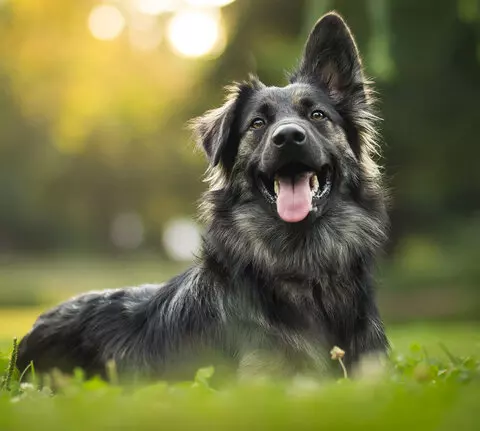
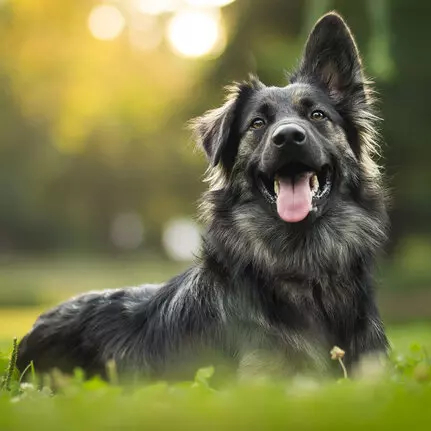
feat, fix
se agrega boton que muestra implementacion en proyectos.
se cambia el estilo de las tarjetas de implementacion y la portada de los proyectos.
se corrigen rutas de archivos de imagenes en el proyecto

diff --git a/tp-leng1-equipo-B/Programas.html b/tp-leng1-equipo-B/Programas.html
@@ -47,7 +47,7 @@
             <div class="top-header">
                 <a href="index.html">
                     <div class="logo">
-                        <img src="images/Logo-Patas-sin-fronteras.png" alt="Logo patas sin fronteras">
+                        <img src="./images/Logo-Patas-sin-fronteras.png" alt="Logo patas sin fronteras">
                     </div>
                     <div>
                         <h1>Patas sin Fronteras</h1>
@@ -66,7 +66,7 @@
                 <article id="Adopcion" class="proyecto">
                     <div class="contenedor-titulo">
                         <img class="fade-left" src="./images/programas/titulo-background.jpg" alt="imagen de perro">
-                        <div class="titulo">
+                        <div class="proyecto-titulo">
                             <h3>Red de Adopcion Resopnsable</h3>
                             <p>Adoptar es un acto de amor, hacerlo responsable es garantizar bienestar</p>
                         </div>
@@ -103,10 +103,12 @@
                         </div>
                     </div>
                     <div>
-                        <h4>¿Cómo se implementa?</h4>
-                        <div class="implementacion">
+                        <div id="btn-adopcion" class="btn-implementacion">
+                            <p>¿Cómo se implementa?<p>
+                        </div>
+                        <div id="imp-adopcion" class="implementacion hidden">
                             <div class="card-peq">
-                                <img src="" alt="">
+                                <img class="card-icon" src="./images/programas/preadopcion.svg" alt="">
                                 <h5>Sistema de Pre-Adopción</h5>
                                 <p><strong>Herramientas:</strong> Formulario digital y entrevistas</p>
                                 <p><strong>Criterios evaluados:</strong></p>
@@ -118,8 +120,8 @@
                                 </ul>
                             </div>
                             <div class="card-peq">
-                                <img src="" alt="">
-                                <h5>Perfilado y Matching de Adopción<h5>
+                                <img class="card-icon" src="./images/programas/perfilado.svg" alt="">
+                                <h5>Perfilado y Matching de Adopción</h5>
                                 <p>Cada animal tiene:</p>
                                 <ul>
                                     <li>Ficha completa (edad, caracter, salud, etc.).</li>
@@ -128,7 +130,7 @@
                                 <p><strong>Objetivo:</strong> evitar adopciones incompatibles.</p>
                             </div>
                             <div class="card-peq">
-                                <img src="" alt="">
+                                <img class="card-icon" src="./images/programas/entrega.svg" alt="">
                                 <h5>Entrega Responsable</h5>
                                 <ul>
                                     <li>Contrato de adopción</li>
@@ -137,7 +139,7 @@
                                 </ul>
                             </div>
                             <div class="card-peq">
-                                <img src="" alt="">
+                                <img class="card-icon" src="./images/programas/seguimiento.svg" alt="">
                                 <h5>Seguimiento Post-Adopción</h5>
                                 <p><strong>Puntos de control:</strong></p>
                                 <ul>
@@ -149,7 +151,7 @@
                                 <p>WhatsApp / Llamadas / Visita (casos especiales)</p>  
                             </div>
                             <div class="card-peq">
-                                <img src="" alt="">
+                                <img class="card-icon" src="./images/programas/comunidad.svg" alt="">
                                 <h5>Comunidad de Adoptantes</h5>
                                 <ul>
                                     <li>Grupo de Whatsapp y Canal de Discord</li>
@@ -163,9 +165,10 @@
 
                 <article id="Castracion" class="proyecto">
                     <div class="contenedor-titulo">
-                        <div class="titulo">
+                        <img class="fade-left" src="./images/programas/titulo-castracion.jpg"></img>
+                        <div class="proyecto-titulo">
                             <h3>Jornadas de Castración y Atención Básica</h3>
-                            <p>Lorem ipsum dolor sit amet consectetur adipisicing elit. Temporibus?</p>
+                            <p>Controlar la sobrepoblación es construir un futuro sin abandono.</p>
                         </div>
                     </div>
                     <div class="inf-gral">
@@ -195,11 +198,13 @@
                             </div>
                         </div>
                     </div>
-                    <div id="implementacion" class="">
-                        <h4>¿Cómo se implementa?</h4>
-                        <div class="implementacion">
+                    <div class="">
+                        <div id="btn-castracion" class="btn-implementacion">
+                            <p>¿Cómo se implementa?<p>
+                        </div>
+                        <div id="imp-castracion" class="implementacion hidden">
                             <div class="card-peq">
-                                <img src="" alt="">
+                                <img class="card-icon" src="./images/programas/operativosm.svg" alt="">
                                 <h5>Operativos Móviles</h5>
                                 <p><strong>Modalidad:</strong> Unidad móvil y espacios comunitarios.</p>
                                 <p><strong>Espacios Utilizados:</strong></p>
@@ -212,8 +217,8 @@
                                 <p><strong>Frecuencia:</strong> Una jornada semanal.</p>
                             </div>
                             <div class="card-peq">
-                                <img src="" alt="">
-                                <h5>Servicios Incluidos<h5>
+                                <img class="card-icon" src="./images/programas/servicios.svg" alt="">
+                                <h5>Servicios Incluidos</h5>
                                 <ul>
                                     <li>Castración de perros y gatos.</li>
                                     <li>Vacunación antirrábica.</li>
@@ -222,7 +227,7 @@
                                 </ul>
                             </div>
                             <div class="card-peq">
-                                <img src="" alt="">
+                                <img class="card-icon" src="./images/programas/difusion.svg" alt="">
                                 <h5>Campaña de Difusión</h5>
                                 <p><strong>Canales de Comunicación:</strong></p>
                                 <ul>
@@ -233,7 +238,7 @@
                                 </ul>
                             </div>
                             <div class="card-peq">
-                                <img src="" alt="">
+                                <img class="card-icon" src="./images/programas/recursos.svg" alt="">
                                 <h5>Recursos Necesarios</h5>
                                 <p><strong>Recursos Humanos:</strong></p>
                                 <ul>
@@ -255,7 +260,7 @@
 
                 <article id="Educacion" class="proyecto">
                     <div class="contenedor-titulo">
-                        <div class="titulo">
+                        <div class="proyecto-titulo">
                             <h3>Programa Educativo "Convivir con Respeto"</h3>
                             <p>El abandono animal no es solo un problema económico o logístico, sino principalmente cultural y educativo.</p>
                         </div>
@@ -291,11 +296,13 @@
                             </div>
                         </div>
                     </div>
-                    <div id="implementacion" class="">
-                        <h4>¿Cómo se implementa?</h4>
-                        <div class="implementacion">
+                    <div class="contenedor-implementacion">
+                        <div id="btn-educacion" class="btn-implementacion">
+                            <p>¿Cómo se implementa?<p>
+                        </div>
+                        <div id="imp-educacion" class="implementacion hidden">
                             <div class="card-peq">
-                                <img src="" alt="">
+                                <img class="card-icon" src="./images/programas/charlas.svg" alt="">
                                 <h5>Charlas en Instituciones Educativas</h5>
                                 <p><strong>Modalidad:</strong> Charlas presenciales y virtuales de 45 a 60 minutos.</p>
                                 <p><strong>Contenido Adaptado por Edad:</strong></p>
@@ -305,8 +312,8 @@
                                 </ul>
                             </div>
                             <div class="card-peq">
-                                <img src="" alt="">
-                                <h5>Temáticas Abordadas<h5>
+                                <img class="card-icon" src="./images/programas/tematicassvg.svg" alt="">
+                                <h5>Temáticas Abordadas</h5>
                                 <ul>
                                     <li>Cuidados básicos (alimentación y salud).</li>
                                     <li>Comportamiento animal.</li>
@@ -318,7 +325,7 @@
                                 </ul>
                             </div>
                             <div class="card-peq">
-                                <img src="" alt="">
+                                <img class="card-icon" src="./images/programas/campaña.svg" alt="">
                                 <h5>Campaña Digital Educativa</h5>
                                 <p><strong>Plataformas Utilizadas:</strong></p>
                                 <ul>
@@ -335,7 +342,7 @@
                                 </ul>
                             </div>
                             <div class="card-peq">
-                                <img src="" alt="">
+                                <img class="card-icon" src="./images/programas/materialeduca.svg" alt="">
                                 <h5>Material Educativo</h5>
                                 <p><strong>Recursos Disponibles:</strong></p>
                                 <ul>
@@ -351,7 +358,7 @@
                                 </ul>
                             </div>
                             <div class="card-peq">
-                                <img src="" alt="">
+                                <img class="card-icon" src="./images/programas/recursoscharlas.svg" alt="">
                                 <h5>Recursos Necesarios</h5>
                                 <p><strong>Recursos Humanos:</strong></p>
                                 <ul>
@@ -382,8 +389,8 @@
                             <li><a href="documents/Informe_Mensual_Marzo.pdf">Informe Marzo</a></li>
                         </ul>
                         <div class="galeria-3">
-                            <img src="images/vet1.jpg" loading="lazy" alt="Convenio con Veterinarias"> 
-                            <img src="images/petshop1.png" loading="lazy" alt="Convenio con Pet-Shop">
+                            <img src="./images/vet1.jpg" loading="lazy" alt="Convenio con Veterinarias"> 
+                            <img src="./images/petshop1.png" loading="lazy" alt="Convenio con Pet-Shop">
                         </div>
                     </section>
                     
@@ -397,8 +404,8 @@
                             <li>Campañas en redes sociales</li>
                         </ul>
                         <div class="galeria-3">
-                            <img src="images/feria3.jpg" loading="lazy" alt="Foto de la Feria Enero 2026. Niño abrazando perro">
-                            <img src="images/feria2.jpg" loading="lazy" alt="Personas con sus mascotas">
+                            <img src="./images/feria3.jpg" loading="lazy" alt="Foto de la Feria Enero 2026. Niño abrazando perro">
+                            <img src="./images/feria2.jpg" loading="lazy" alt="Personas con sus mascotas">
                         </div>
                     </section>
                 </div>

diff --git a/tp-leng1-equipo-B/index.html b/tp-leng1-equipo-B/index.html
@@ -46,7 +46,7 @@
             <div class="top-header">
                 <a href="index.html">
                     <div class="logo">
-                        <img src="images/Logo-Patas-sin-fronteras.png" alt="Logo patas sin fronteras">
+                        <img src="./images/Logo-Patas-sin-fronteras.png" alt="Logo patas sin fronteras">
                     </div>
                     <div>
                         <h1>Patas sin Fronteras</h1>
@@ -87,7 +87,7 @@
                     <h3>Programa de Adopción Responsable</h3>
                     <figure>
                         <div class="contenedor-imagen">
-                            <img src="images/Pro-adopcion.png" alt="Adopcion" width="110%" height="100%" object-fit="cover">
+                            <img src="./images/Pro-adopcion.png" alt="Adopcion" width="110%" height="100%" object-fit="cover">
                         </div>
                         <figcaption>Fomentamos la adopción consciente de mascotas, asegurando que cada animal encuentre un hogar lleno de cuidado, compromiso y amor.</figcaption>
                     </figure>    
@@ -109,7 +109,7 @@
                     <h3>Programa Educativo “Convivir con Respeto”</h3>
                     <figure>
                         <div class="contenedor-imagen">
-                            <img src="images/pro-educacion.jpg" alt="Educacion" width="110%" height="100%" object-fit="cover">
+                            <img src="./images/pro-educacion.jpg" alt="Educacion" width="110%" height="100%" object-fit="cover">
                         </div>
                         <figcaption>Buscamos generar un cambio sostenible a largo plazo mediante la educación en escuelas y comunidades</figcaption>  
                     </figure>

diff --git a/tp-leng1-equipo-B/css/estilos.css b/tp-leng1-equipo-B/css/estilos.css
@@ -18,6 +18,9 @@
    ----RESET--------
 */
 
+.hidden{
+    display: none !important;
+}
 
 html body{
     box-sizing: border-box;
@@ -238,11 +241,11 @@ footer{
 
 /* --------------------------- */
 /* Proyectos */
-
+/*
 .display-proyectos{
-    /* border: solid 3px red; */
+     border: solid 3px red;
 }
-
+*/
 .proyecto{
     display: flex;
     flex-direction: column;
@@ -280,6 +283,10 @@ footer{
     -webkit-mask-image: linear-gradient(to left, black 50%, transparent 100%);
 }
 
+.proyecto-titulo{
+    max-width: 60%;
+}
+
 .inf-gral{
     display:flex;
     flex-direction: row;
@@ -302,6 +309,24 @@ footer{
     align-items: center;
 }
 
+.btn-implementacion{
+    width: auto;
+    display: flex;
+    justify-content: center;
+    border-radius: 100vw;
+    padding: 2rem;
+    margin: 2rem;
+    background-color: #2D3748;
+    color: white;
+    font-size: 2rem;
+
+}
+
+.contenedor-implementacion{
+    margin-top: 4rem ;
+    padding-bottom: 2rem ;
+}
+
 .implementacion{
     display: flex;
     flex-direction: row;
@@ -311,10 +336,18 @@ footer{
 }
 
 .card-peq{
+    width: 30rem;
     padding: 2rem;
-    max-width: 30rem;
     border-radius: 20px;
+    color: var(--color-texto);
+    background-color: beige;
     box-shadow: 0 2px 11px 0px #0000003a;
+    position: relative;
+    font-size: 1.6rem;
+}
+
+.card-peq h5{
+    font-size: 2rem;
 }
 
 .item-icon{

diff --git a/tp-leng1-equipo-B/script/main.js b/tp-leng1-equipo-B/script/main.js
@@ -1,0 +1,20 @@
+const btnadopcion = document.getElementById("btn-adopcion");
+const adopcion = document.getElementById("imp-adopcion");
+
+btnadopcion.addEventListener("click", () =>{
+    adopcion.classList.toggle("hidden")
+})
+
+let btncastracion = document.getElementById("btn-castracion");
+let castracion = document.getElementById("imp-castracion");
+
+btncastracion.addEventListener("click", () =>{
+    castracion.classList.toggle("hidden")
+})
+
+let btneducacion = document.getElementById("btn-educacion");
+let educacion = document.getElementById("imp-educacion");
+
+btneducacion.addEventListener("click", () =>{
+    educacion.classList.toggle("hidden")
+})

diff --git a/tp-leng1-equipo-B/contacto.html b/tp-leng1-equipo-B/contacto.html
@@ -44,7 +44,7 @@
             <div class="top-header">
                 <a href="index.html">
                     <div class="logo">
-                        <img src="images/Logo-Patas-sin-fronteras.png" alt="Logo patas sin fronteras">
+                        <img src="./images/Logo-Patas-sin-fronteras.png" alt="Logo patas sin fronteras">
                     </div>
                     <div>
                         <h1>Patas sin Fronteras</h1>

diff --git a/tp-leng1-equipo-B/nosotros.html b/tp-leng1-equipo-B/nosotros.html
@@ -44,7 +44,7 @@
             <div class="top-header">
                 <a href="index.html">
                     <div class="logo">
-                        <img src="images/Logo-Patas-sin-fronteras.png" alt="Logo patas sin fronteras">
+                        <img src="./images/Logo-Patas-sin-fronteras.png" alt="Logo patas sin fronteras">
                     </div>
                     <div>
                         <h1>Patas sin Fronteras</h1>
